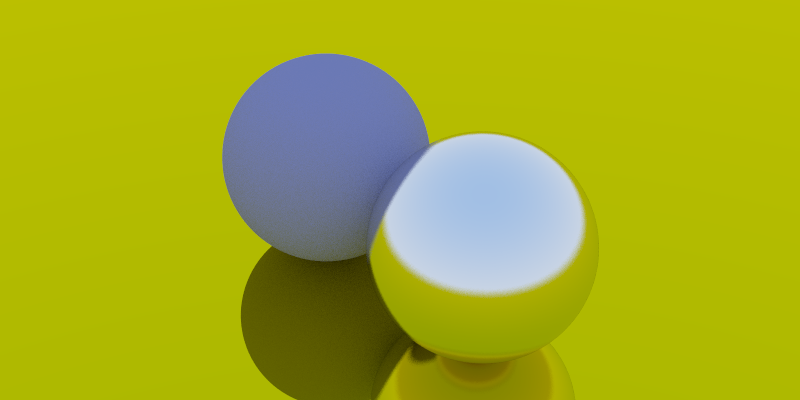
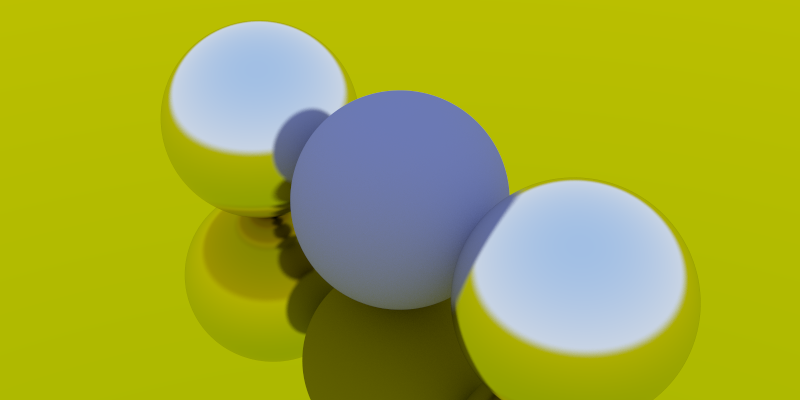
Refactor

diff --git a/main.py b/main.py
@@ -1,7 +1,6 @@
 import random
 import pygame
 import numpy as np
-# import multiprocessing as mp
 from PIL import Image
 from threed.vec3 import Vec3
 from threed.sphere import Sphere
@@ -12,52 +11,44 @@ from threed.renderer import Renderer
 from threed.lambert_material import Lambertian
 from threed.metal_material import Metal
 
-pygame.init()
-
 def main():
+    pygame.init()
     window_width = 800
     window_height = 400
+
+    window_size = (window_width, window_height)
+    screen = pygame.display.set_mode(window_size)
+    pygame.display.set_caption("Raytracer")
 
     image_width = 800
     image_height = 400
 
     data = np.empty((image_width, image_height, 3), dtype=np.uint8)
 
-    window_size = (window_width, window_height)
-    screen = pygame.display.set_mode(window_size)
-    pygame.display.set_caption("Raytracer")
-
     render_buffer = pygame.Surface((data.shape[0], data.shape[1]))
     screen_buffer = pygame.Surface(window_size)
 
     live_render = True
 
-    samples_per_pixel = 100
+    aa_samples_per_pixel = 100
 
     world = HittableList()
-    world.add(Sphere(Vec3(-0.5, 0, -1), 0.5, Lambertian(Vec3(0.3, 0.3, 0.5))))
     world.add(Sphere(Vec3(0, -100.5, -1), 100, Metal(Vec3(0.8, 0.7, 0.0), 0.0)))
-    world.add(Sphere(Vec3(0.5, 0, -1), 0.5, Metal(Vec3(0.8, 0.8, 0.8), 0.1)))
+    world.add(Sphere(Vec3(-1.0, 0, -1), 0.5, Metal(Vec3(0.8, 0.8, 0.8), 0.1)))
+    world.add(Sphere(Vec3(0, 0, -1), 0.5, Lambertian(Vec3(0.3, 0.3, 0.5))))
+    world.add(Sphere(Vec3(1.0, 0, -1), 0.5, Metal(Vec3(0.8, 0.8, 0.8), 0.1)))
 
     aspect_ratio = image_width / image_height
     cam = Camera(Vec3(3, 3, 2), Vec3(0, 0, -1), Vec3(0, 1, 0), 20, aspect_ratio)
 
-    renderer = Renderer()
-
     max_depth = 10
 
-    # clock = pygame.time.Clock()
+    renderer = Renderer(cam, world, image_width, image_height, max_depth, aa_samples_per_pixel)
 
     for x in range(0, image_width):
         for y in range(0, image_height):
-            pixel = Vec3(0, 0, 0)
-            for s in range(0, samples_per_pixel):
-                u = (x + random.uniform(0, 0.999)) / image_width
-                v = (y + random.uniform(0, 0.999)) / image_height
-                r = cam.get_ray(u, v)
-                pixel += renderer.ray_color(r, world, max_depth)
-
-            data[x, y] = pixel.asColor(samples_per_pixel)
+            pixel = sum(renderer.render(x, y), Vec3(0, 0, 0))
+            data[x, y] = pixel.asColor(aa_samples_per_pixel)
             if live_render:
                 for event in pygame.event.get():
                     if event.type == pygame.QUIT:

diff --git a/threed/renderer.py b/threed/renderer.py
@@ -1,10 +1,36 @@
 import math
 import random
+# import multiprocessing as mp
 from .vec3 import Vec3
 from .ray import Ray
 from .hittable import Hittable, HitRecord
+from .hittable_list import HittableList
+from .camera import Camera
 
 class Renderer(object):
+    def __init__(self,
+                 cam: Camera,
+                 world: HittableList,
+                 image_width: int,
+                 image_height: int,
+                 max_depth: int,
+                 aa_samples_per_pixel: int):
+        self.cam = cam
+        self.world = world
+        self.image_width = image_width
+        self.image_height = image_height
+        self.max_depth = max_depth
+        self.aa_samples_per_pixel = aa_samples_per_pixel
+
+    def render(self, x: int, y: int):
+        samples = []
+        for s in range(0, self.aa_samples_per_pixel):
+            u = (x + random.uniform(0, 0.999)) / self.image_width
+            v = (y + random.uniform(0, 0.999)) / self.image_height
+            r = self.cam.get_ray(u, v)
+            samples.append(self.ray_color(r, self.world, self.max_depth))
+        return samples
+
     def random_in_hemisphere(self, normal: Vec3):
         in_unit_sphere = self.random_in_unit_sphere()
         if Vec3.dot(in_unit_sphere, normal) > 0.0: # In the same hemisphere as the normal

diff --git a/threed/hittable.py b/threed/hittable.py
@@ -1,7 +1,6 @@
 from abc import ABC, abstractmethod
 from .vec3 import Vec3
 from .ray import Ray
-from .material import Material
 from .lambert_material import Lambertian
 
 class HitRecord(object):
